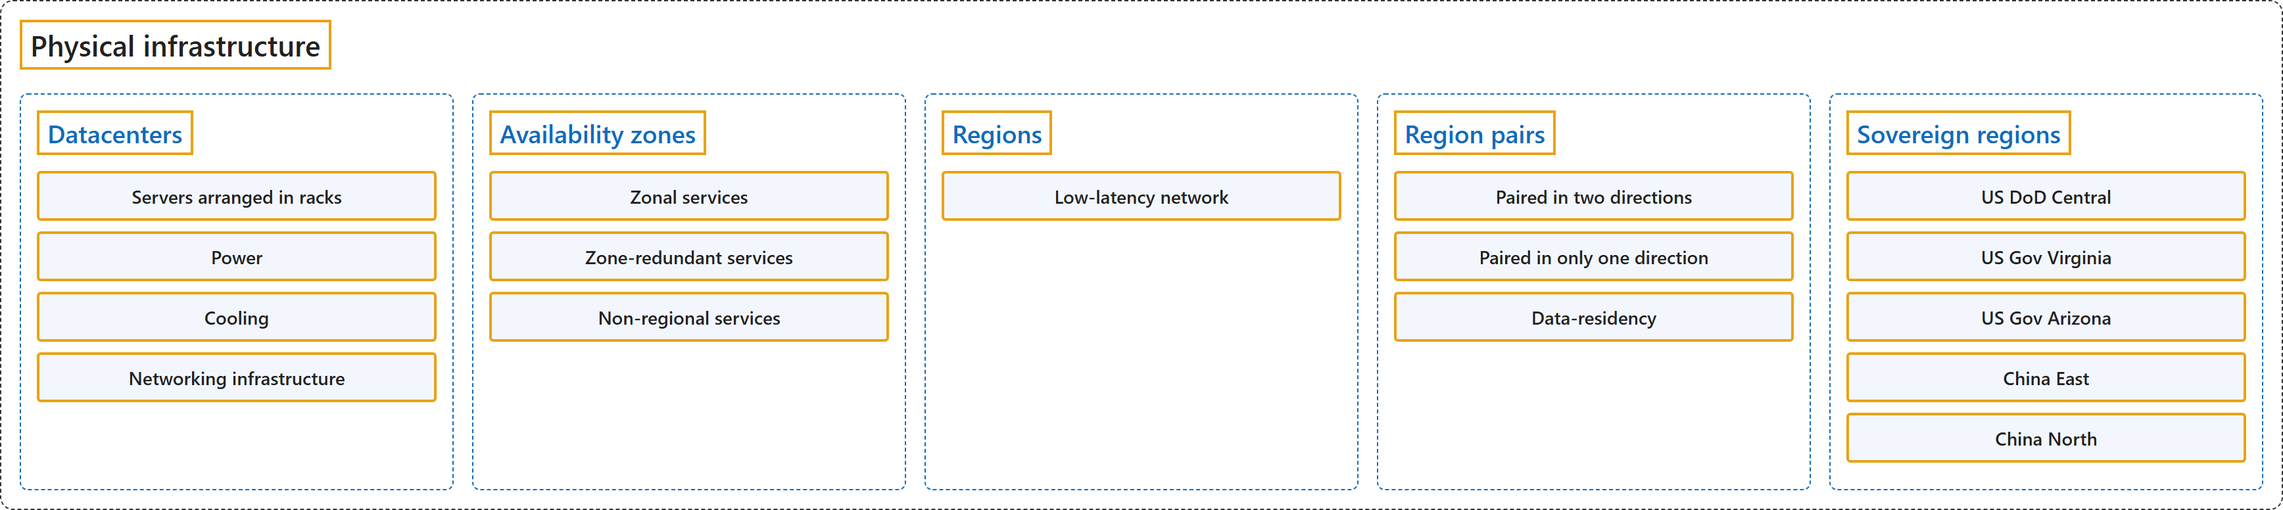
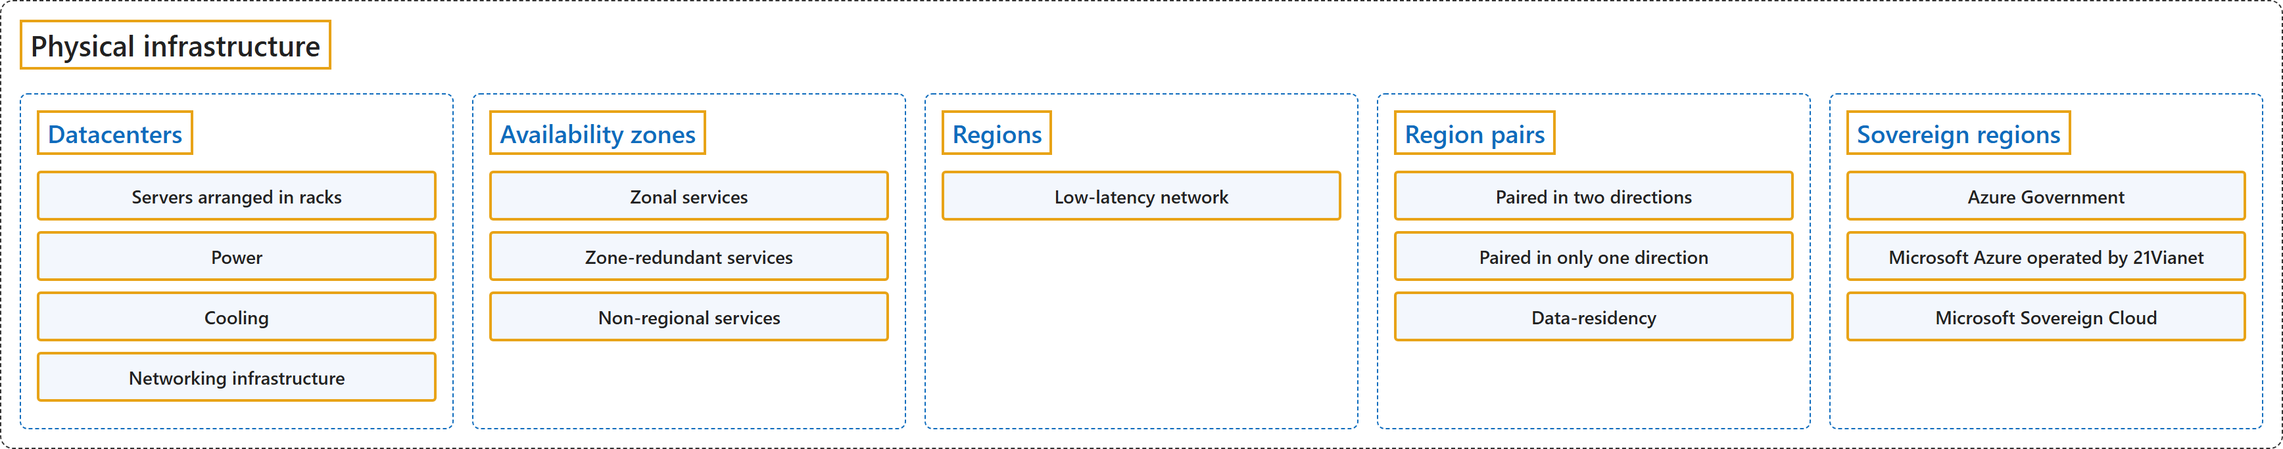
fix(azure): 2.1 Sovereign regions boxes the three sovereign clouds instead of five example region names that shared two quotes (Azure Government and Microsoft Azure operated by 21Vianet from the Azure documentation home page, Microsoft Sovereign Cloud from Reliability and sovereignty in Azure); Regi

diff --git a/figures/cloud/azure/core-architectural-components/physical-infrastructure.html b/figures/cloud/azure/core-architectural-components/physical-infrastructure.html
@@ -50,11 +50,9 @@
     <div class="col">
       <div class="group">
         <div class="title">Sovereign regions</div>
-        <div class="item">US DoD Central</div>
-        <div class="item">US Gov Virginia</div>
-        <div class="item">US Gov Arizona</div>
-        <div class="item">China East</div>
-        <div class="item">China North</div>
+        <div class="item">Azure Government</div>
+        <div class="item">Microsoft Azure operated by 21Vianet</div>
+        <div class="item">Microsoft Sovereign Cloud</div>
       </div>
     </div>
   </div>

diff --git a/docs/cloud/azure/core-architectural-components/physical-infrastructure.md b/docs/cloud/azure/core-architectural-components/physical-infrastructure.md
@@ -6,39 +6,40 @@ ms.date: 2026-10-25
 
 # 2.1 Physical infrastructure
 
-Sources: [AZ-900 unit: Describe Azure physical infrastructure](https://learn.microsoft.com/en-us/training/modules/describe-core-architectural-components-of-azure/5-describe-azure-physical-infrastructure).
+Sources: [AZ-900 unit: Describe Azure physical infrastructure](https://learn.microsoft.com/en-us/training/modules/describe-core-architectural-components-of-azure/5-describe-azure-physical-infrastructure); [Azure documentation, "Azure clouds"](https://learn.microsoft.com/en-us/azure/#azure-clouds); [What are Azure regions?](https://learn.microsoft.com/en-us/azure/reliability/regions-overview); [Reliability and sovereignty in Azure](https://learn.microsoft.com/en-us/azure/reliability/concept-reliability-sovereignty).
 
 ## Classification
 
-![Physical infrastructure sorted into five groups: datacenters (servers arranged in racks, power, cooling, networking infrastructure), availability zones (zonal, zone-redundant and non-regional services), regions (low-latency network), region pairs (paired in two directions, paired in only one direction, data-residency) and sovereign regions (US DoD Central, US Gov Virginia, US Gov Arizona, China East, China North).](media/physical-infrastructure.png)
+![Physical infrastructure sorted into five groups: datacenters (servers arranged in racks, power, cooling, networking infrastructure), availability zones (zonal, zone-redundant and non-regional services), regions (low-latency network), region pairs (paired in two directions, paired in only one direction, data-residency) and sovereign regions (Azure Government, Microsoft Azure operated by 21Vianet, Microsoft Sovereign Cloud).](media/physical-infrastructure.png)
 
 ## Glossary
 
 | Term | Definition | 中文解释 | Source |
 |---|---|---|---|
-| **Physical infrastructure**<br>物理基础结构 | "This unit covers the **physical side** — how Azure **organizes its datacenters, regions, and availability zones** to deliver **reliable services worldwide**." | 本单元介绍**物理层面**：Azure 如何**组织其数据中心、区域和可用区**，以在**全球提供可靠的服务**。 | [Microsoft, n.d., unit introduction, para. 1](https://learn.microsoft.com/en-us/training/modules/describe-core-architectural-components-of-azure/5-describe-azure-physical-infrastructure#:~:text=This%20unit%20covers%20the%20physical%20side) |
-| **Datacenters**<br>数据中心 | "These datacenters are **facilities with servers arranged in racks**, with **dedicated power, cooling, and networking infrastructure** — similar to an on-premises datacenter, but at a **much larger scale**." | 这些数据中心是**放置成排机架服务器的设施**，配有**专用的供电、冷却和网络基础结构**，类似于本地数据中心，但**规模大得多**。 | [Microsoft, n.d., "Physical infrastructure" section, para. 1](https://learn.microsoft.com/en-us/training/modules/describe-core-architectural-components-of-azure/5-describe-azure-physical-infrastructure#:~:text=These%20datacenters%20are%20facilities%20with%20servers%20arranged%20in%20racks) |
-| **Servers arranged in racks**<br>成排机架服务器 | (context) "These datacenters are facilities with **servers arranged in racks**, with dedicated power, cooling, and networking infrastructure — similar to an on-premises datacenter, but at a much larger scale." | （语境）这些数据中心是放置**成排机架服务器**的设施，配有专用的供电、冷却和网络基础结构，类似于本地数据中心，但规模大得多。 | [Microsoft, n.d., "Physical infrastructure" section, para. 1](https://learn.microsoft.com/en-us/training/modules/describe-core-architectural-components-of-azure/5-describe-azure-physical-infrastructure#:~:text=These%20datacenters%20are%20facilities%20with%20servers%20arranged%20in%20racks) |
-| **Power**<br>供电 | (context) "These datacenters are facilities with servers arranged in racks, with dedicated **power**, cooling, and networking infrastructure — similar to an on-premises datacenter, but at a much larger scale." | （语境）这些数据中心是放置成排机架服务器的设施，配有专用的**供电**、冷却和网络基础结构，类似于本地数据中心，但规模大得多。 | [Microsoft, n.d., "Physical infrastructure" section, para. 1](https://learn.microsoft.com/en-us/training/modules/describe-core-architectural-components-of-azure/5-describe-azure-physical-infrastructure#:~:text=These%20datacenters%20are%20facilities%20with%20servers%20arranged%20in%20racks) |
-| **Cooling**<br>冷却 | (context) "These datacenters are facilities with servers arranged in racks, with dedicated power, **cooling**, and networking infrastructure — similar to an on-premises datacenter, but at a much larger scale." | （语境）这些数据中心是放置成排机架服务器的设施，配有专用的供电、**冷却**和网络基础结构，类似于本地数据中心，但规模大得多。 | [Microsoft, n.d., "Physical infrastructure" section, para. 1](https://learn.microsoft.com/en-us/training/modules/describe-core-architectural-components-of-azure/5-describe-azure-physical-infrastructure#:~:text=These%20datacenters%20are%20facilities%20with%20servers%20arranged%20in%20racks) |
-| **Networking infrastructure**<br>网络基础结构 | (context) "These datacenters are facilities with servers arranged in racks, with dedicated power, cooling, and **networking infrastructure** — similar to an on-premises datacenter, but at a much larger scale." | （语境）这些数据中心是放置成排机架服务器的设施，配有专用的供电、冷却和**网络基础结构**，类似于本地数据中心，但规模大得多。 | [Microsoft, n.d., "Physical infrastructure" section, para. 1](https://learn.microsoft.com/en-us/training/modules/describe-core-architectural-components-of-azure/5-describe-azure-physical-infrastructure#:~:text=These%20datacenters%20are%20facilities%20with%20servers%20arranged%20in%20racks) |
-| **Availability zones**<br>可用区 | "Availability zones are **physically separate datacenters** within an **Azure region**." | 可用区是**物理上分离的数据中心**，位于 **Azure 区域**内。 | [Microsoft, n.d., "Availability Zones" section, para. 1](https://learn.microsoft.com/en-us/training/modules/describe-core-architectural-components-of-azure/5-describe-azure-physical-infrastructure#:~:text=Availability%20zones%20are%20physically%20separate%20datacenters%20within%20an%20Azure%20region) |
-| **Zonal services**<br>可用区服务 | "**Zonal services**: You **pin the resource to a specific zone** (for example, VMs, managed disks, IP addresses)." | **可用区服务**：你把**资源固定到特定的可用区**（例如虚拟机、托管磁盘、IP 地址）。 | [Microsoft, n.d., "Use availability zones for your workloads" section, list item 1](https://learn.microsoft.com/en-us/training/modules/describe-core-architectural-components-of-azure/5-describe-azure-physical-infrastructure#:~:text=You%20pin%20the%20resource%20to%20a%20specific%20zone) |
-| **Zone-redundant services**<br>区域冗余服务 | "**Zone-redundant services**: The platform **replicates automatically across zones** (for example, zone-redundant storage, SQL Database)." | **区域冗余服务**：平台**自动跨可用区复制**（例如区域冗余存储、SQL 数据库）。 | [Microsoft, n.d., "Use availability zones for your workloads" section, list item 2](https://learn.microsoft.com/en-us/training/modules/describe-core-architectural-components-of-azure/5-describe-azure-physical-infrastructure#:~:text=The%20platform%20replicates%20automatically%20across%20zones) |
-| **Non-regional services**<br>非区域服务 | "**Non-regional services**: Services are **always available from Azure geographies** and are **resilient to zone-wide outages as well as region-wide outages**." | **非区域服务**：服务**始终可从 Azure 地理位置获得**，并且**能承受整个可用区乃至整个区域的中断**。 | [Microsoft, n.d., "Use availability zones for your workloads" section, list item 3](https://learn.microsoft.com/en-us/training/modules/describe-core-architectural-components-of-azure/5-describe-azure-physical-infrastructure#:~:text=Services%20are%20always%20available%20from%20Azure%20geographies) |
-| **Regions**<br>区域 | "A region is a **geographical area on the planet** that contains **at least one, but potentially multiple datacenters** that are nearby and networked together with a **low-latency network**." | 区域是**地球上的一个地理区域**，包含**至少一个、也可能多个数据中心**，它们彼此相邻，并通过**低延迟网络**互联。 | [Microsoft, n.d., "Regions" section, para. 1](https://learn.microsoft.com/en-us/training/modules/describe-core-architectural-components-of-azure/5-describe-azure-physical-infrastructure#:~:text=A%20region%20is%20a%20geographical%20area%20on%20the%20planet) |
-| **Low-latency network**<br>低延迟网络 | (context) "A region is a geographical area on the planet that contains at least one, but potentially multiple datacenters that are nearby and networked together with a **low-latency network**." | （语境）区域是地球上的一个地理区域，包含至少一个、也可能多个数据中心，它们彼此相邻，并通过**低延迟网络**互联。 | [Microsoft, n.d., "Regions" section, para. 1](https://learn.microsoft.com/en-us/training/modules/describe-core-architectural-components-of-azure/5-describe-azure-physical-infrastructure#:~:text=networked%20together%20with%20a%20low%2Dlatency%20network) |
-| **Region pairs**<br>区域对 | "Most Azure regions are **paired with another region** within the **same geography** (such as US, Europe, or Asia) **at least 300 miles away**." | 大多数 Azure 区域都**与另一个区域配对**，后者位于**同一地理位置**（如美国、欧洲或亚洲），且**相距至少 300 英里**。 | [Microsoft, n.d., "Region pairs" section, para. 1](https://learn.microsoft.com/en-us/training/modules/describe-core-architectural-components-of-azure/5-describe-azure-physical-infrastructure#:~:text=Most%20Azure%20regions%20are%20paired%20with%20another%20region) |
-| **Paired in two directions**<br>双向配对 | "Most regions are **paired in two directions**, meaning they are **the backup for the region that provides a backup for them** (West US and East US back each other up)." | 大多数区域是**双向配对**的，也就是说，它们**为给自己提供备份的那个区域提供备份**（美国西部和美国东部互为备份）。 | [Microsoft, n.d., "Additional advantages of region pairs" section, "Important" note](https://learn.microsoft.com/en-us/training/modules/describe-core-architectural-components-of-azure/5-describe-azure-physical-infrastructure#:~:text=Most%20regions%20are%20paired%20in%20two%20directions) |
-| **Paired in only one direction**<br>单向配对 | "However, some regions, such as Brazil South, are **paired in only one direction**. In a one-direction pairing, the **Primary region does not provide backup for its secondary region**." | 不过，有些区域（如巴西南部）**只单向配对**。在单向配对中，**主区域不为其次要区域提供备份**。 | [Microsoft, n.d., "Additional advantages of region pairs" section, "Important" note](https://learn.microsoft.com/en-us/training/modules/describe-core-architectural-components-of-azure/5-describe-azure-physical-infrastructure#:~:text=are%20paired%20in%20only%20one%20direction) |
-| **Data-residency**<br>数据驻留 | (context) "Data continues to **reside within the same geography as its pair** (except for Brazil South) for **data-residency** and compliance purposes." | （语境）数据继续**存放在与其配对区域相同的地理位置内**（巴西南部除外），以满足**数据驻留**和合规要求。 | [Microsoft, n.d., "Additional advantages of region pairs" section, list item 3](https://learn.microsoft.com/en-us/training/modules/describe-core-architectural-components-of-azure/5-describe-azure-physical-infrastructure#:~:text=for%20data%2Dresidency%20and%20compliance%20purposes) |
-| **Sovereign regions**<br>主权区域 | "In addition to **regular regions**, Azure also has **sovereign regions**. Sovereign regions are instances of Azure that are **isolated from the main instance of Azure**. You may need to use a sovereign region for **compliance or legal purposes**." | 除了**普通区域**，Azure 还有**主权区域**。主权区域是 Azure 的实例，它们**与 Azure 的主实例隔离**。出于**合规或法律原因**，你可能需要使用主权区域。 | [Microsoft, n.d., "Sovereign Regions" section, para. 1](https://learn.microsoft.com/en-us/training/modules/describe-core-architectural-components-of-azure/5-describe-azure-physical-infrastructure#:~:text=In%20addition%20to%20regular%20regions%2C%20Azure%20also%20has%20sovereign%20regions) |
-| **US DoD Central**<br>US DoD Central | "**US DoD Central**, US Gov Virginia, US Gov Arizona, and more: These regions are **physical and logical network-isolated instances of Azure** for **U.S. government agencies and partners**." | **US DoD Central**、US Gov Virginia、US Gov Arizona 等：这些区域是**物理和逻辑网络隔离的 Azure 实例**，供**美国政府机构及其合作伙伴**使用。 | [Microsoft, n.d., "Sovereign Regions" section, list item 1](https://learn.microsoft.com/en-us/training/modules/describe-core-architectural-components-of-azure/5-describe-azure-physical-infrastructure#:~:text=physical%20and%20logical%20network%2Disolated%20instances%20of%20Azure) |
-| **US Gov Virginia**<br>US Gov Virginia | "US DoD Central, **US Gov Virginia**, US Gov Arizona, and more: These regions are **physical and logical network-isolated instances of Azure** for **U.S. government agencies and partners**." | US DoD Central、**US Gov Virginia**、US Gov Arizona 等：这些区域是**物理和逻辑网络隔离的 Azure 实例**，供**美国政府机构及其合作伙伴**使用。 | [Microsoft, n.d., "Sovereign Regions" section, list item 1](https://learn.microsoft.com/en-us/training/modules/describe-core-architectural-components-of-azure/5-describe-azure-physical-infrastructure#:~:text=physical%20and%20logical%20network%2Disolated%20instances%20of%20Azure) |
-| **US Gov Arizona**<br>US Gov Arizona | "US DoD Central, US Gov Virginia, **US Gov Arizona**, and more: These regions are **physical and logical network-isolated instances of Azure** for **U.S. government agencies and partners**." | US DoD Central、US Gov Virginia、**US Gov Arizona** 等：这些区域是**物理和逻辑网络隔离的 Azure 实例**，供**美国政府机构及其合作伙伴**使用。 | [Microsoft, n.d., "Sovereign Regions" section, list item 1](https://learn.microsoft.com/en-us/training/modules/describe-core-architectural-components-of-azure/5-describe-azure-physical-infrastructure#:~:text=physical%20and%20logical%20network%2Disolated%20instances%20of%20Azure) |
-| **China East**<br>China East | "**China East**, China North, and more: These regions are available through a **unique partnership between Microsoft and 21Vianet**, whereby **Microsoft doesn't directly maintain the datacenters**." | **China East**、China North 等：这些区域通过 **Microsoft 与世纪互联（21Vianet）的独特合作**提供，**Microsoft 不直接维护这些数据中心**。 | [Microsoft, n.d., "Sovereign Regions" section, list item 2](https://learn.microsoft.com/en-us/training/modules/describe-core-architectural-components-of-azure/5-describe-azure-physical-infrastructure#:~:text=unique%20partnership%20between%20Microsoft%20and%2021Vianet) |
-| **China North**<br>China North | "China East, **China North**, and more: These regions are available through a **unique partnership between Microsoft and 21Vianet**, whereby **Microsoft doesn't directly maintain the datacenters**." | China East、**China North** 等：这些区域通过 **Microsoft 与世纪互联（21Vianet）的独特合作**提供，**Microsoft 不直接维护这些数据中心**。 | [Microsoft, n.d., "Sovereign Regions" section, list item 2](https://learn.microsoft.com/en-us/training/modules/describe-core-architectural-components-of-azure/5-describe-azure-physical-infrastructure#:~:text=unique%20partnership%20between%20Microsoft%20and%2021Vianet) |
+| **Physical infrastructure**<br>物理基础结构 | "This unit covers the **physical side** — how Azure **organizes its datacenters, regions, and availability zones** to deliver **reliable services worldwide**." | 本单元介绍**物理层面**：Azure 如何**组织其数据中心、区域和可用区**，以在**全球提供可靠的服务**。 | [Microsoft, n.d.-b, unit introduction, para. 1](https://learn.microsoft.com/en-us/training/modules/describe-core-architectural-components-of-azure/5-describe-azure-physical-infrastructure#:~:text=This%20unit%20covers%20the%20physical%20side) |
+| **Datacenters**<br>数据中心 | "These datacenters are **facilities with servers arranged in racks**, with **dedicated power, cooling, and networking infrastructure** — similar to an on-premises datacenter, but at a **much larger scale**." | 这些数据中心是**放置成排机架服务器的设施**，配有**专用的供电、冷却和网络基础结构**，类似于本地数据中心，但**规模大得多**。 | [Microsoft, n.d.-b, "Physical infrastructure" section, para. 1](https://learn.microsoft.com/en-us/training/modules/describe-core-architectural-components-of-azure/5-describe-azure-physical-infrastructure#:~:text=These%20datacenters%20are%20facilities%20with%20servers%20arranged%20in%20racks) |
+| **Servers arranged in racks**<br>成排机架服务器 | (context) "These datacenters are facilities with **servers arranged in racks**, with dedicated power, cooling, and networking infrastructure — similar to an on-premises datacenter, but at a much larger scale." | （语境）这些数据中心是放置**成排机架服务器**的设施，配有专用的供电、冷却和网络基础结构，类似于本地数据中心，但规模大得多。 | [Microsoft, n.d.-b, "Physical infrastructure" section, para. 1](https://learn.microsoft.com/en-us/training/modules/describe-core-architectural-components-of-azure/5-describe-azure-physical-infrastructure#:~:text=These%20datacenters%20are%20facilities%20with%20servers%20arranged%20in%20racks) |
+| **Power**<br>供电 | (context) "These datacenters are facilities with servers arranged in racks, with dedicated **power**, cooling, and networking infrastructure — similar to an on-premises datacenter, but at a much larger scale." | （语境）这些数据中心是放置成排机架服务器的设施，配有专用的**供电**、冷却和网络基础结构，类似于本地数据中心，但规模大得多。 | [Microsoft, n.d.-b, "Physical infrastructure" section, para. 1](https://learn.microsoft.com/en-us/training/modules/describe-core-architectural-components-of-azure/5-describe-azure-physical-infrastructure#:~:text=These%20datacenters%20are%20facilities%20with%20servers%20arranged%20in%20racks) |
+| **Cooling**<br>冷却 | (context) "These datacenters are facilities with servers arranged in racks, with dedicated power, **cooling**, and networking infrastructure — similar to an on-premises datacenter, but at a much larger scale." | （语境）这些数据中心是放置成排机架服务器的设施，配有专用的供电、**冷却**和网络基础结构，类似于本地数据中心，但规模大得多。 | [Microsoft, n.d.-b, "Physical infrastructure" section, para. 1](https://learn.microsoft.com/en-us/training/modules/describe-core-architectural-components-of-azure/5-describe-azure-physical-infrastructure#:~:text=These%20datacenters%20are%20facilities%20with%20servers%20arranged%20in%20racks) |
+| **Networking infrastructure**<br>网络基础结构 | (context) "These datacenters are facilities with servers arranged in racks, with dedicated power, cooling, and **networking infrastructure** — similar to an on-premises datacenter, but at a much larger scale." | （语境）这些数据中心是放置成排机架服务器的设施，配有专用的供电、冷却和**网络基础结构**，类似于本地数据中心，但规模大得多。 | [Microsoft, n.d.-b, "Physical infrastructure" section, para. 1](https://learn.microsoft.com/en-us/training/modules/describe-core-architectural-components-of-azure/5-describe-azure-physical-infrastructure#:~:text=These%20datacenters%20are%20facilities%20with%20servers%20arranged%20in%20racks) |
+| **Availability zones**<br>可用区 | "Availability zones are **physically separate datacenters** within an **Azure region**." | 可用区是**物理上分离的数据中心**，位于 **Azure 区域**内。 | [Microsoft, n.d.-b, "Availability Zones" section, para. 1](https://learn.microsoft.com/en-us/training/modules/describe-core-architectural-components-of-azure/5-describe-azure-physical-infrastructure#:~:text=Availability%20zones%20are%20physically%20separate%20datacenters%20within%20an%20Azure%20region) |
+| **Zonal services**<br>可用区服务 | "**Zonal services**: You **pin the resource to a specific zone** (for example, VMs, managed disks, IP addresses)." | **可用区服务**：你把**资源固定到特定的可用区**（例如虚拟机、托管磁盘、IP 地址）。 | [Microsoft, n.d.-b, "Use availability zones for your workloads" section, list item 1](https://learn.microsoft.com/en-us/training/modules/describe-core-architectural-components-of-azure/5-describe-azure-physical-infrastructure#:~:text=You%20pin%20the%20resource%20to%20a%20specific%20zone) |
+| **Zone-redundant services**<br>区域冗余服务 | "**Zone-redundant services**: The platform **replicates automatically across zones** (for example, zone-redundant storage, SQL Database)." | **区域冗余服务**：平台**自动跨可用区复制**（例如区域冗余存储、SQL 数据库）。 | [Microsoft, n.d.-b, "Use availability zones for your workloads" section, list item 2](https://learn.microsoft.com/en-us/training/modules/describe-core-architectural-components-of-azure/5-describe-azure-physical-infrastructure#:~:text=The%20platform%20replicates%20automatically%20across%20zones) |
+| **Non-regional services**<br>非区域服务 | "**Non-regional services**: Services are **always available from Azure geographies** and are **resilient to zone-wide outages as well as region-wide outages**." | **非区域服务**：服务**始终可从 Azure 地理位置获得**，并且**能承受整个可用区乃至整个区域的中断**。 | [Microsoft, n.d.-b, "Use availability zones for your workloads" section, list item 3](https://learn.microsoft.com/en-us/training/modules/describe-core-architectural-components-of-azure/5-describe-azure-physical-infrastructure#:~:text=Services%20are%20always%20available%20from%20Azure%20geographies) |
+| **Regions**<br>区域 | "An Azure region consists of **one or more datacenters**, connected by a **high-capacity, fault-tolerant, low-latency network connection**." | Azure 区域由**一个或多个数据中心**组成，这些数据中心通过**高容量、容错、低延迟的网络连接**互联。 | [Microsoft, 2026b, "Understand Azure regions and geographies" section, para. 1](https://learn.microsoft.com/en-us/azure/reliability/regions-overview#understand-azure-regions-and-geographies:~:text=An%20Azure%20region%20consists%20of%20one%20or%20more%20datacenters) |
+| **Low-latency network**<br>低延迟网络 | (context) "A region is a geographical area on the planet that contains at least one, but potentially multiple datacenters that are nearby and networked together with a **low-latency network**." | （语境）区域是地球上的一个地理区域，包含至少一个、也可能多个数据中心，它们彼此相邻，并通过**低延迟网络**互联。 | [Microsoft, n.d.-b, "Regions" section, para. 1](https://learn.microsoft.com/en-us/training/modules/describe-core-architectural-components-of-azure/5-describe-azure-physical-infrastructure#:~:text=networked%20together%20with%20a%20low%2Dlatency%20network) |
+| **Region pairs**<br>区域对 | "Most Azure regions are **paired with another region** within the **same geography** (such as US, Europe, or Asia) **at least 300 miles away**." | 大多数 Azure 区域都**与另一个区域配对**，后者位于**同一地理位置**（如美国、欧洲或亚洲），且**相距至少 300 英里**。 | [Microsoft, n.d.-b, "Region pairs" section, para. 1](https://learn.microsoft.com/en-us/training/modules/describe-core-architectural-components-of-azure/5-describe-azure-physical-infrastructure#:~:text=Most%20Azure%20regions%20are%20paired%20with%20another%20region) |
+| **Paired in two directions**<br>双向配对 | "Most regions are **paired in two directions**, meaning they are **the backup for the region that provides a backup for them** (West US and East US back each other up)." | 大多数区域是**双向配对**的，也就是说，它们**为给自己提供备份的那个区域提供备份**（美国西部和美国东部互为备份）。 | [Microsoft, n.d.-b, "Additional advantages of region pairs" section, "Important" note](https://learn.microsoft.com/en-us/training/modules/describe-core-architectural-components-of-azure/5-describe-azure-physical-infrastructure#:~:text=Most%20regions%20are%20paired%20in%20two%20directions) |
+| **Paired in only one direction**<br>单向配对 | "However, some regions, such as Brazil South, are **paired in only one direction**. In a one-direction pairing, the **Primary region does not provide backup for its secondary region**." | 不过，有些区域（如巴西南部）**只单向配对**。在单向配对中，**主区域不为其次要区域提供备份**。 | [Microsoft, n.d.-b, "Additional advantages of region pairs" section, "Important" note](https://learn.microsoft.com/en-us/training/modules/describe-core-architectural-components-of-azure/5-describe-azure-physical-infrastructure#:~:text=are%20paired%20in%20only%20one%20direction) |
+| **Data-residency**<br>数据驻留 | "Every region is contained within a single geography that serves as a **fixed data residency boundary**." | 每个区域都位于单一的地理区域内，该地理区域是一个**固定的数据驻留边界**。 | [Microsoft, 2026b, "Understand Azure regions and geographies" section, para. 3](https://learn.microsoft.com/en-us/azure/reliability/regions-overview#understand-azure-regions-and-geographies:~:text=serves%20as%20a%20fixed%20data%20residency%20boundary); term from [Microsoft, n.d.-b, "Additional advantages of region pairs" section, list item 3](https://learn.microsoft.com/en-us/training/modules/describe-core-architectural-components-of-azure/5-describe-azure-physical-infrastructure#:~:text=for%20data%2Dresidency%20and%20compliance%20purposes) |
+| **Sovereign regions**<br>主权区域 | "In addition to **regular regions**, Azure also has **sovereign regions**. Sovereign regions are instances of Azure that are **isolated from the main instance of Azure**. You may need to use a sovereign region for **compliance or legal purposes**." | 除了**普通区域**，Azure 还有**主权区域**。主权区域是 Azure 的实例，它们**与 Azure 的主实例隔离**。出于**合规或法律原因**，你可能需要使用主权区域。 | [Microsoft, n.d.-b, "Sovereign Regions" section, para. 1](https://learn.microsoft.com/en-us/training/modules/describe-core-architectural-components-of-azure/5-describe-azure-physical-infrastructure#:~:text=In%20addition%20to%20regular%20regions%2C%20Azure%20also%20has%20sovereign%20regions) |
+| **Azure Government**<br>Azure Government | "A **dedicated cloud** for **U.S. government agencies and their partners**." | 一个专供**美国政府机构及其合作伙伴**使用的**专用云**。 | [Microsoft, n.d.-a, "Azure clouds" section, item 1](https://learn.microsoft.com/en-us/azure/#azure-clouds:~:text=A%20dedicated%20cloud%20for%20U.S.%20government%20agencies) |
+| **Microsoft Azure operated by 21Vianet**<br>由世纪互联运营的 Microsoft Azure | "A **dedicated cloud** located **in China** and **operated by 21Vianet**." | 一个位于**中国**、由**世纪互联运营**的**专用云**。 | [Microsoft, n.d.-a, "Azure clouds" section, item 2](https://learn.microsoft.com/en-us/azure/#azure-clouds:~:text=A%20dedicated%20cloud%20located%20in%20China) |
+| **Microsoft Sovereign Cloud**<br>Microsoft Sovereign Cloud | (context) "**Microsoft Sovereign Cloud** supports **logical isolation patterns** within **Azure public cloud**." | （语境）**Microsoft Sovereign Cloud** 支持在 **Azure 公有云**内采用**逻辑隔离模式**。 | [Microsoft, 2026a, "Azure capabilities that support sovereignty" section, list item 3](https://learn.microsoft.com/en-us/azure/reliability/concept-reliability-sovereignty#azure-capabilities-that-support-sovereignty:~:text=Microsoft%20Sovereign%20Cloud%20supports%20logical%20isolation) |
 
 ## References
 
-Microsoft. (n.d.). *Describe Azure physical infrastructure* [Training unit]. Microsoft Learn. Retrieved October 18, 2026, from <https://learn.microsoft.com/en-us/training/modules/describe-core-architectural-components-of-azure/5-describe-azure-physical-infrastructure>
+- Microsoft. (n.d.-a). *Azure documentation*. Microsoft Learn. Retrieved October 25, 2026, from <https://learn.microsoft.com/en-us/azure/>
+- Microsoft. (n.d.-b). *Describe Azure physical infrastructure* [Training unit]. Microsoft Learn. Retrieved October 18, 2026, from <https://learn.microsoft.com/en-us/training/modules/describe-core-architectural-components-of-azure/5-describe-azure-physical-infrastructure>
+- Microsoft. (2026a, May 19). *Reliability and sovereignty in Azure*. Microsoft Learn. <https://learn.microsoft.com/en-us/azure/reliability/concept-reliability-sovereignty>
+- Microsoft. (2026b, June 26). *What are Azure regions?* Microsoft Learn. <https://learn.microsoft.com/en-us/azure/reliability/regions-overview>

diff --git a/docs/cloud/azure/core-architectural-components/README.md b/docs/cloud/azure/core-architectural-components/README.md
@@ -6,5 +6,5 @@ Follows `../README.md`. Figure on `index.md`: classification (see `../README.md`
 
 | No. | File | Title (group name in the figure) | Sources | Allowed sections (the groups of the sub-page figure, in figure order) |
 |---|---|---|---|---|
-| 2.1 | `physical-infrastructure.md` | Physical infrastructure | [AZ-900 unit: Describe Azure physical infrastructure](https://learn.microsoft.com/en-us/training/modules/describe-core-architectural-components-of-azure/5-describe-azure-physical-infrastructure) | 2.1.1 Datacenters, 2.1.2 Availability zones, 2.1.3 Regions, 2.1.4 Region pairs, 2.1.5 Sovereign regions |
+| 2.1 | `physical-infrastructure.md` | Physical infrastructure | [AZ-900 unit: Describe Azure physical infrastructure](https://learn.microsoft.com/en-us/training/modules/describe-core-architectural-components-of-azure/5-describe-azure-physical-infrastructure); [Azure documentation, "Azure clouds"](https://learn.microsoft.com/en-us/azure/#azure-clouds); [Azure reliability documentation: What are Azure regions?](https://learn.microsoft.com/en-us/azure/reliability/regions-overview); [Azure reliability documentation: Reliability and sovereignty in Azure](https://learn.microsoft.com/en-us/azure/reliability/concept-reliability-sovereignty) | 2.1.1 Datacenters, 2.1.2 Availability zones, 2.1.3 Regions, 2.1.4 Region pairs, 2.1.5 Sovereign regions |
 | 2.2 | `management-infrastructure.md` | Management infrastructure | [AZ-900 unit: Describe Azure management infrastructure](https://learn.microsoft.com/en-us/training/modules/describe-core-architectural-components-of-azure/6-describe-azure-management-infrastructure); [AZ-900 unit: Get started with Azure accounts](https://learn.microsoft.com/en-us/training/modules/describe-core-architectural-components-of-azure/3-get-started-azure-accounts) | 2.2.1 Resources, 2.2.2 Resource groups, 2.2.3 Subscriptions, 2.2.4 Management groups, 2.2.5 Azure account |

diff --git a/docs/cloud/azure/README.md b/docs/cloud/azure/README.md
@@ -101,6 +101,7 @@ A topic folder holds only:
   - A list of what a part does or when to use it is not boxed, except for a term added under section 6.
   - A definition found in another section of the same source is quoted with its real section.
   - A term defined elsewhere in the folder keeps its box, and its table row only links there.
+  - Several rows quoting the same sentence: fine when the sentence names several components of the part (Datacenters: servers arranged in racks, power, cooling, networking infrastructure). When the boxes are example names (US DoD Central, China East), the source is giving examples, not kinds: find the kinds in the product documentation and box those instead (2.1 Sovereign regions: Azure Government, Microsoft Azure operated by 21Vianet, Microsoft Sovereign Cloud).
   - Double quotes inside a quote become single quotes.
   - The Chinese term names are my translation, without a note.
 
